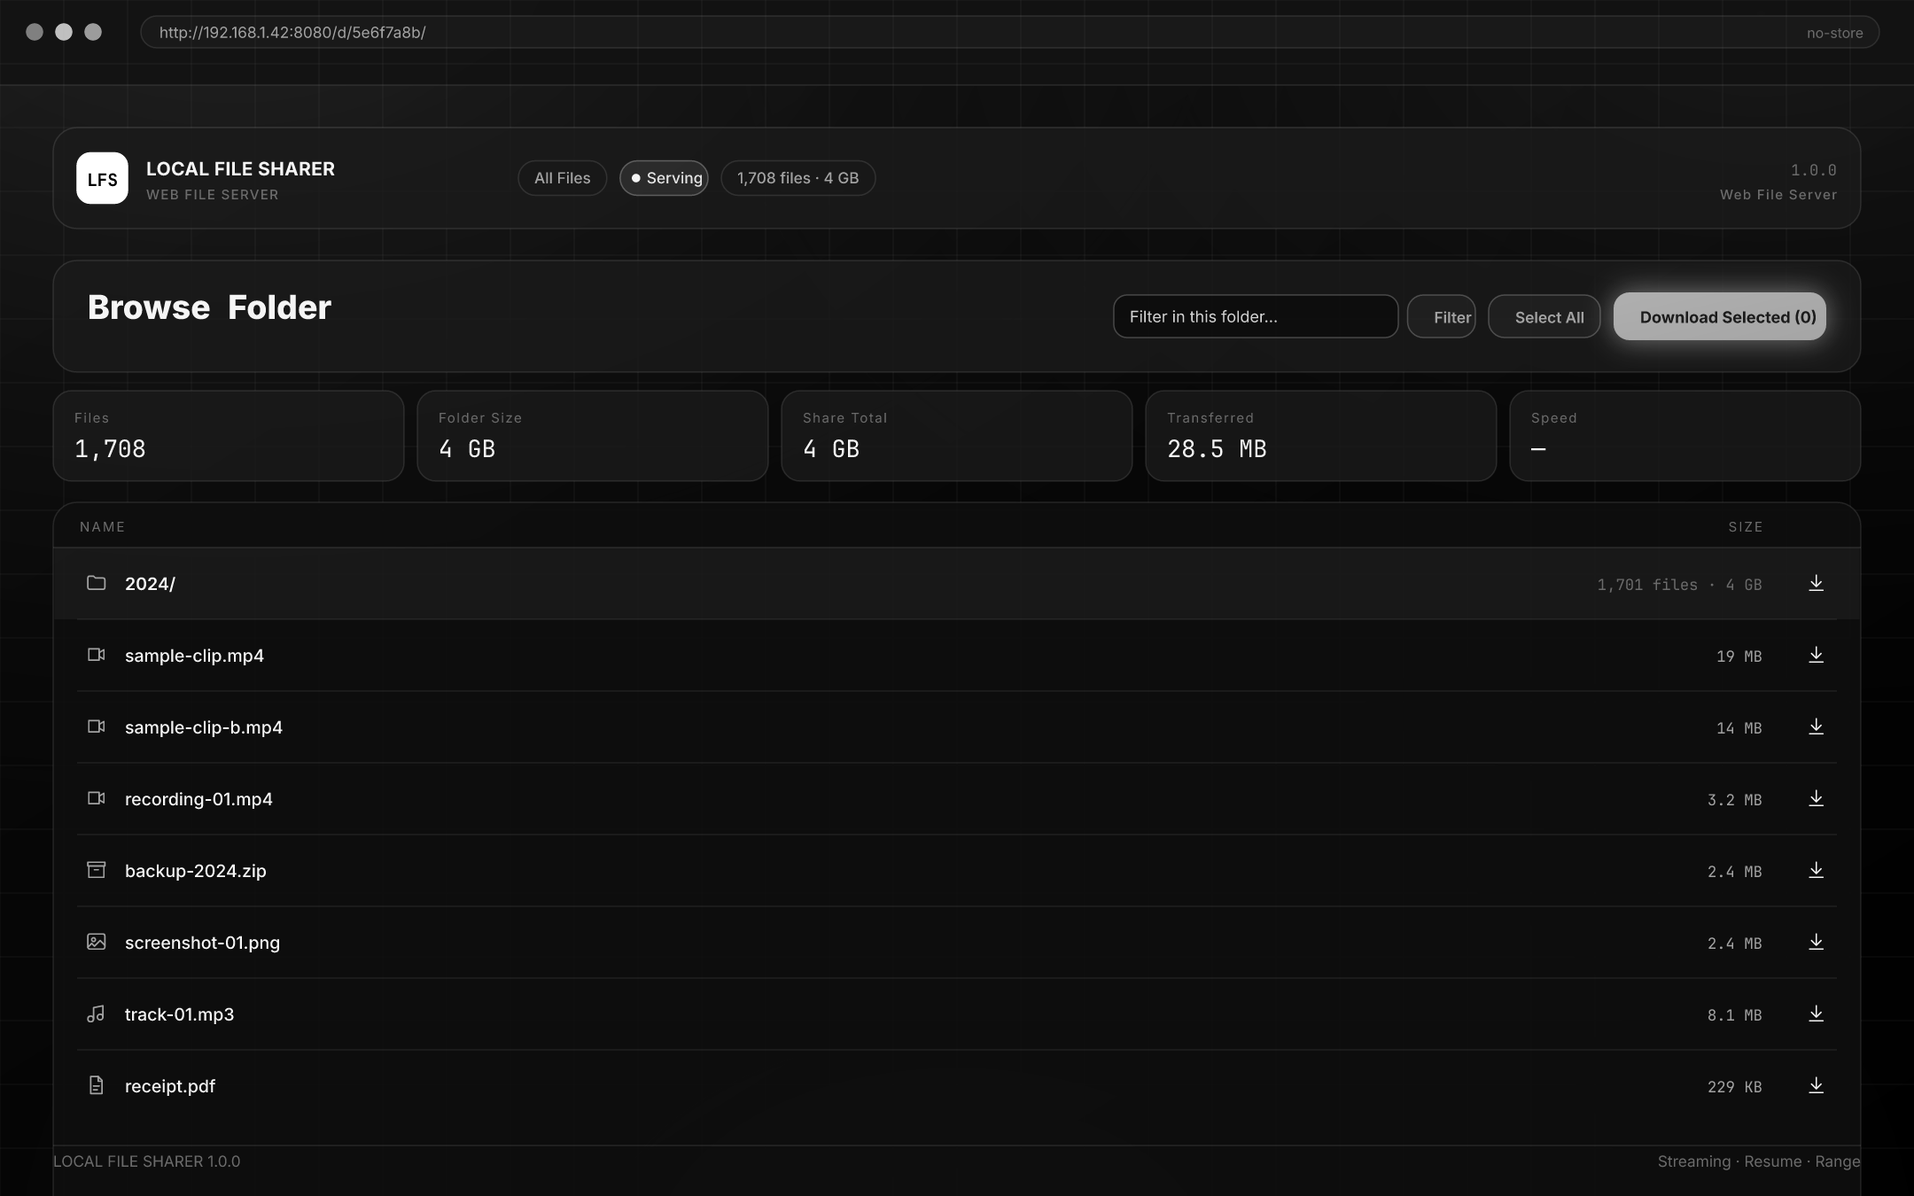
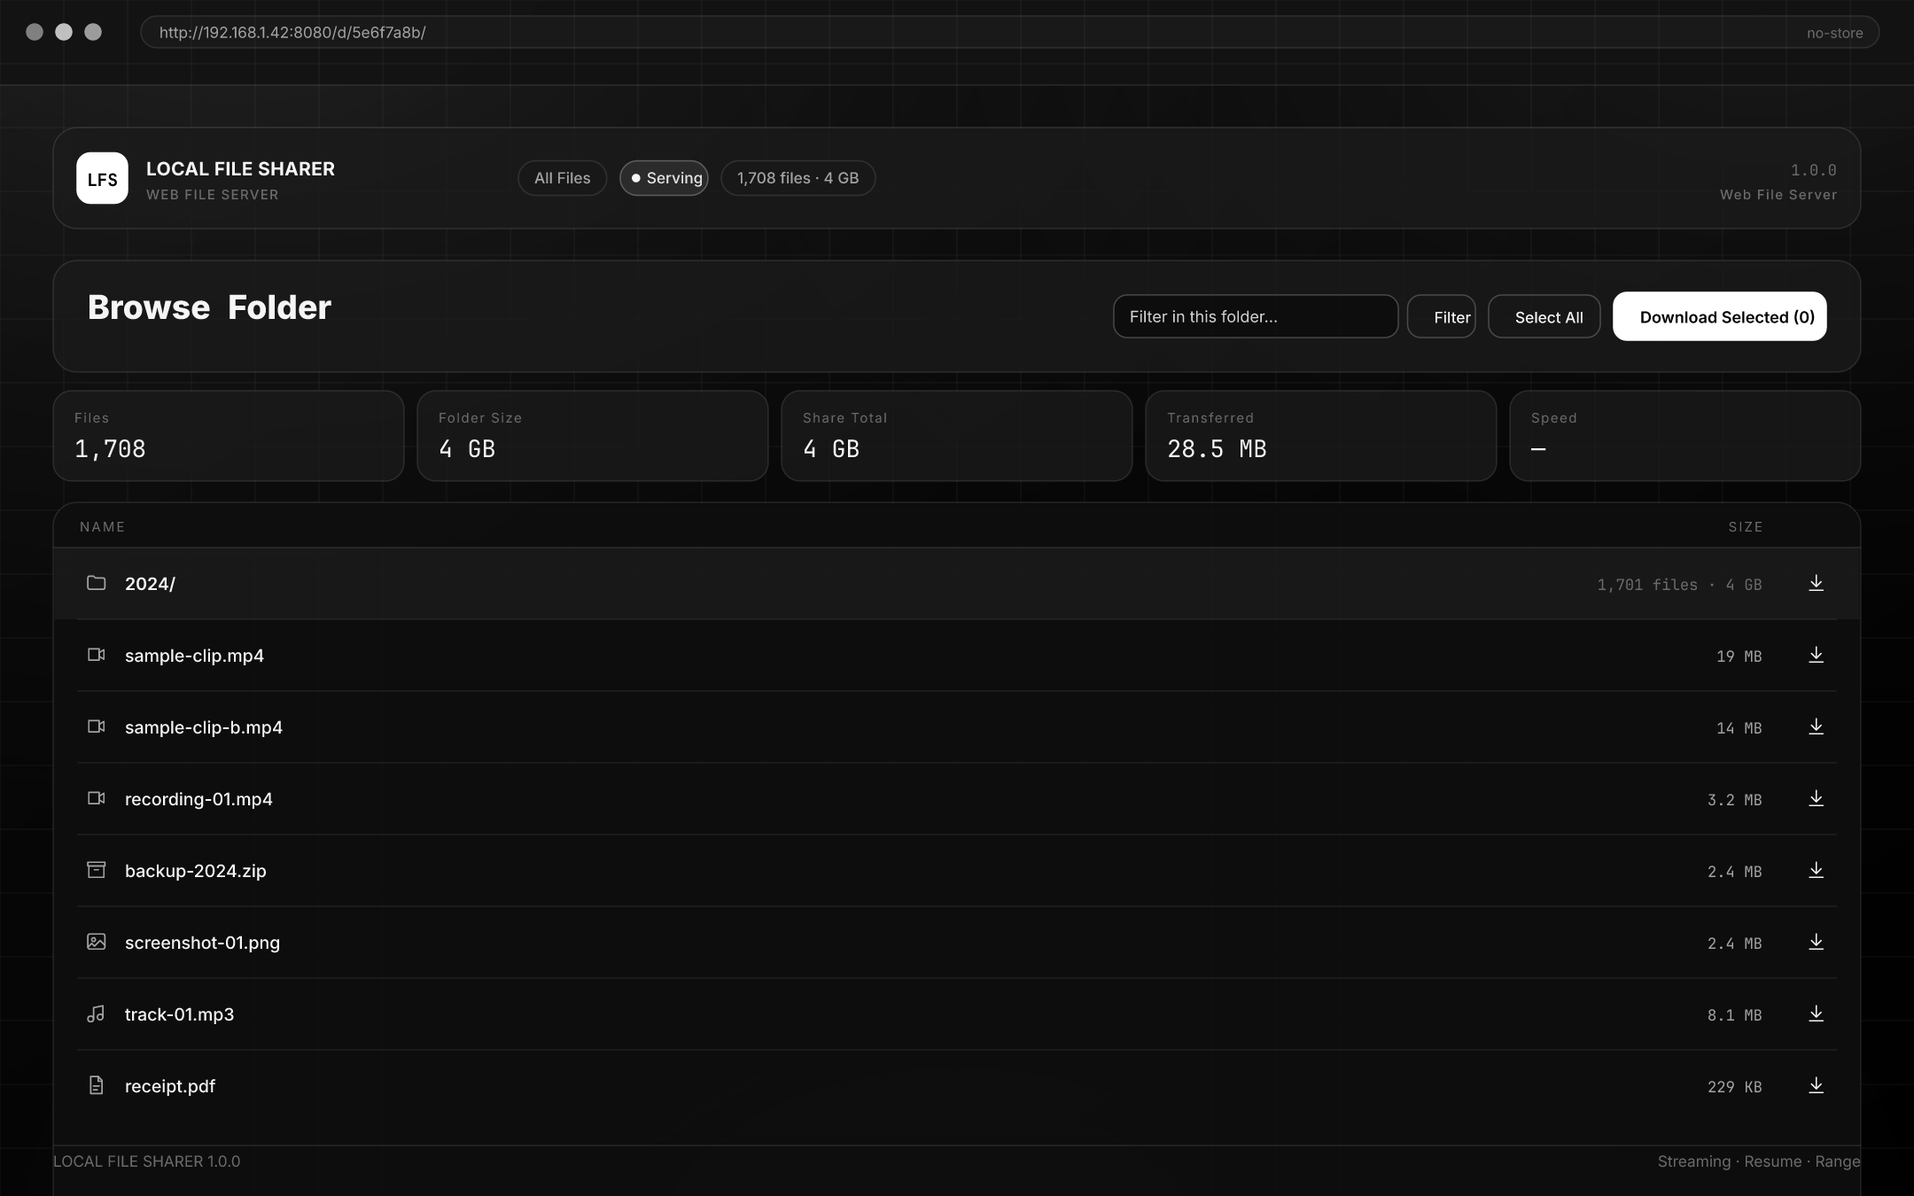
Draw the player's buttons from the page, not from memory
The screenshots and the gif were hand-drawn SVG that had drifted from the
player they claim to show. Nine differences, all visible in the button
row: 34px circles instead of 40px, a #3a3a3a border instead of #232323,
#0a0a0a inside instead of #141414, a 10px gap instead of 8px, controls in
the wrong order, a "+" in a frame where the download button belongs, no
download button at all, a flat pip rectangle instead of the outlined
screen-with-inset, and a play triangle drawn by hand instead of the
page's own path.

The row is now stamped from the page's markup. GLYPHS holds the exact
path data copied out of player.html, and _transport_glyph scales the same
24-unit viewBox the page uses. The 10s labels print on a plate of the
circle colour, as the page now does, and .solid is resolved the way the
page's CSS resolves it.

Two defects in the shipped player turned up while doing this, so the page
changed too, which is the point of comparing them:

* The "10" printed straight through the arrow's tail. Both were grey on
  the same circle, unreadable at 40px. It now sits on a #141414 plate.
* The icons were 21px inside a 40px circle, a thin glyph in a ring of
  dead space. They are 26px, which is what makes them read as buttons
  next to the 46px play disc.

The download page had the same class of error: app.css draws .btn as a
flat white pill, .btn.alt as #d4d4d4 and .btn.ghost as transparent with a
border, and the shot drew a grey gradient with a 30px glow instead. Flat
now.
[…]

Changed region(s): [[0.8065, 0.2178, 0.9616, 0.3111], [0.7444, 0.2489, 0.7755, 0.28]]

diff --git a/src/local_file_sharer/web/assets/player.html b/src/local_file_sharer/web/assets/player.html
@@ -240,20 +240,28 @@
     .round.primary{width:42px;height:42px;min-width:42px}
     #rate b{font-size:11px}
   }
-  .round .i{width:21px;height:21px;fill:none;stroke:currentColor;stroke-width:1.8;
+  /* 26px inside a 40px circle. At 21px the glyph sat in a ring of dead space
+     and read as a smaller, lighter button than the 46px play disc beside it;
+     the icons are the thing you aim at, so they get the room. */
+  .round .i{width:26px;height:26px;fill:none;stroke:currentColor;stroke-width:1.8;
     stroke-linecap:round;stroke-linejoin:round}
   .round.primary .i{width:24px;height:24px;fill:currentColor;stroke:none}
   .round .i .solid{fill:currentColor;stroke:none}
   .round .i.off{display:none}
   #fit svg{fill:none;stroke:currentColor;stroke-width:1.8;stroke-linecap:round}
   #fit svg .solid{stroke-width:2.4}
+  /* The number sits in the bottom of the circle with its own dark plate behind
+     it. Without the plate the "10" printed straight through the arrow's tail --
+     two grey shapes on top of each other, unreadable at 40px. The plate is the
+     circle's own colour, so it reads as a notch rather than a box. */
   .round .glyph{position:absolute;font-size:8.5px;font-weight:700;letter-spacing:0;
-    bottom:9px;left:50%;transform:translateX(-50%);pointer-events:none}
+    bottom:5px;left:50%;transform:translateX(-50%);pointer-events:none;line-height:1;
+    padding:0 1.5px;border-radius:3px;background:#141414;color:var(--dim)}
   /* the speed chip keeps its gauge logo and prints the rate in the corner */
   #rate .glyph{bottom:4px;font-size:9px;letter-spacing:-.02em;color:var(--text);
     background:rgba(0,0,0,.55);border-radius:4px;padding:0 2px;line-height:1.25}
-  #rate .i{width:18px;height:18px;margin-bottom:5px}
-  .round#mute .i{width:20px}
+  #rate .i{width:21px;height:21px;margin-bottom:4px}
+  .round#mute .i{width:24px}
   #vol{width:88px;flex:0 0 auto}
   @media (max-width:700px){ #vol{display:none} }   /* the mute button is enough */
   #rate b{font-size:12.5px;font-weight:650;font-variant-numeric:tabular-nums}

diff --git a/tools/screenshots/webgen.py b/tools/screenshots/webgen.py
@@ -419,75 +419,126 @@ def _player_chrome(shot: Shot, *, stage_y: int, stage_h: int, vw: int) -> None:
     pad = 26
     seek_y = bottom - 132
     shot.text(pad, seek_y + 4, "0:41:12", family="mono", size=11, fill=DIM)
-    shot.progress(pad + 62, seek_y - 3, vw - pad * 2 - 124, 0.38, h=6)
-    shot.circle(pad + 62 + (vw - pad * 2 - 124) * 0.38, seek_y, 7, fill="#ffffff")
+    shot.progress(pad + 62, seek_y - 3, vw - pad * 2 - 124, 0.38, h=6, color="#ffffff")
+    thumb_x = pad + 62 + (vw - pad * 2 - 124) * 0.38
+    # input[type=range]::-webkit-slider-thumb: 14px white dot inside a
+    # box-shadow 0 0 0 4px rgba(255,255,255,.22) -- the ring is most of what
+    # makes the slider look like the player's rather than a plain line.
+    shot.circle(thumb_x, seek_y, 11, fill="rgba(255,255,255,0.22)")
+    shot.circle(thumb_x, seek_y, 7, fill="#ffffff")
     shot.text(vw - pad, seek_y + 4, "1:48:20", family="mono", size=11, fill=DIM, anchor="end")
 
     cy = bottom - 74
-    shot.circle(pad + 21, cy, 21, fill="#ffffff")
-    shot.parts.append(
-        f'<path d="M{pad + 17} {cy - 9} L{pad + 30} {cy} L{pad + 17} {cy + 9} Z" fill="#000000"/>'
-    )
-    for offset, label in ((72, "10"), (128, "10")):
-        shot.circle(pad + offset, cy, 17, fill="#0a0a0a")
-        shot.parts.append(
-            f'<circle cx="{pad + offset}" cy="{cy}" r="17" fill="none" stroke="{LINE_STRONG}" stroke-width="1"/>'
-        )
-        shot.text(pad + offset, cy + 4, label, weight=700, size=10, fill=DIM, anchor="middle")
-    mx = pad + 184
-    shot.circle(mx, cy, 17, fill="#0a0a0a")
-    shot.parts.append(
-        f'<circle cx="{mx}" cy="{cy}" r="17" fill="none" stroke="{LINE_STRONG}" stroke-width="1"/>'
-    )
-    shot.parts.append(f'<path d="M{mx - 7} {cy - 3}h4l5-4v14l-5-4h-4z" fill="{DIM}"/>')
-    shot.parts.append(
-        f'<path d="M{mx + 4} {cy - 4}a5 5 0 0 1 0 8" stroke="{DIM}" stroke-width="1.4" fill="none"/>'
-    )
-    vx = mx + 30
-    shot.line(vx, cy, vx + 74, cy, stroke="rgba(255,255,255,0.20)", sw=5)
-    shot.line(vx, cy, vx + 56, cy, stroke="#ffffff", sw=5)
-    shot.circle(vx + 56, cy, 6, fill="#ffffff")
+    # ── transport ───────────────────────────────────────────────────────────
+    # Every number here is read off player.html, not guessed, because this row
+    # is the one thing the gifs are compared against: a 46px white play disc
+    # and 40px outlined circles at --line #232323, glyphs drawn from the same
+    # 24x24 viewBox paths the page uses, and #141414 inside every circle. The
+    # shot used to draw 34px circles with a lighter stroke and a different
+    # order of controls, which is not the player anyone installs.
+    ROUND, PRIMARY = 20.0, 23.0
+    CIRCLED = "#141414"
 
-    rx = vw - pad - 17 - 3 * 44
-    for kind in ("rate", "pip", "fit", "full"):
-        shot.circle(rx, cy, 17, fill="#0a0a0a")
+    def control(cx: float, radius: float) -> None:
+        shot.circle(cx, cy, radius, fill=CIRCLED)
         shot.parts.append(
-            f'<circle cx="{rx}" cy="{cy}" r="17" fill="none" stroke="{LINE_STRONG}" stroke-width="1"/>'
+            f'<circle cx="{cx}" cy="{cy}" r="{radius}" fill="none" '
+            'stroke="#232323" stroke-width="1"/>'
         )
+
+    # play: white disc, black triangle. player.html's .round.primary
+    shot.circle(pad + PRIMARY, cy, PRIMARY, fill=TEXT)
+    # player.html: <svg class="i" viewBox="0 0 24 24"><path d="M8 5v14l11-7z"/> at 24px
+    kp = 24 / 24
+    shot.parts.append(
+        f'<path d="M{pad + PRIMARY + (8 - 12) * kp:.2f} {cy + (5 - 12) * kp:.2f} '
+        f'V{cy + (19 - 12) * kp:.2f} L{pad + PRIMARY + (19 - 12) * kp:.2f} {cy:.2f} Z" fill="#000000"/>'
+    )
+
+    x = pad + PRIMARY * 2 + 10
+    for kind in ("back10", "fwd10", "mute"):
+        control(x, ROUND)
+        _transport_glyph(shot, x, cy, kind)
+        x += ROUND * 2 + 10
+
+    # #vol: a 88px range, 6px tall, white up to the thumb
+    vx = x
+    shot.line(vx, cy, vx + 88, cy, stroke="#333333", sw=6)
+    shot.line(vx, cy, vx + 66, cy, stroke="#ffffff", sw=6)
+    shot.circle(vx + 66, cy, 7, fill="#ffffff")
+
+    # right group: rate, pip, download, fit, fullscreen
+    rx = vw - pad - ROUND - 4 * (ROUND * 2 + 10)
+    for kind in ("rate", "pip", "download", "fit", "full"):
+        # #full is a 46px circle? no: every .round but play is 40px
+        control(rx, ROUND)
         _transport_glyph(shot, rx, cy, kind)
-        rx += 44
+        rx += ROUND * 2 + 10
+
+
+#: The transport glyphs, copied verbatim from player.html: a 24x24 viewBox and
+#: the exact ``d`` / rect geometry the page draws. Nothing is recomputed, which
+#: is the point -- a hand-traced copy of these already shipped once and managed
+#: to draw a "+" where the download control belongs, because a shape was being
+#: approximated instead of copied.
+GLYPHS: dict[str, tuple[str, ...]] = {
+    "back10": ('<path d="M11 5 6.5 9 11 13"/><path d="M6.5 9H13a5.5 5.5 0 1 1 0 11h-3"/>'),
+    "fwd10": ('<path d="m13 5 4.5 4-4.5 4"/><path d="M17.5 9H11a5.5 5.5 0 1 0 0 11h3"/>'),
+    "mute": (
+        '<path d="M4 9.5h3L11.5 6v12L7 14.5H4z"/><path d="M15.5 9a4 4 0 0 1 0 6"/>'
+        '<path d="M18 6.5a7.5 7.5 0 0 1 0 11"/>'
+    ),
+    "rate": (
+        '<path d="M4.2 17.5a8.5 8.5 0 1 1 15.6 0"/><path d="m12 14.5 4-4.2"/>'
+        '<circle cx="12" cy="15.2" r="1.4" fill="currentColor" stroke="none"/>'
+    ),
+    "pip": ('<rect x="3" y="5" width="18" height="14" rx="2.5"/>'
+            '<rect x="12" y="11" width="7" height="6" rx="1.2" fill="currentColor" stroke="none"/>'),
+    "download": ('<path d="M12 4v10"/><path d="m7.5 10.5 4.5 4 4.5-4"/><path d="M5 19h14"/>'),
+    # ``class="solid"`` is a CSS hook (.round .i .solid{fill:currentColor}), not
+    # a presentation attribute, so it is written as one here and resolved below.
+    "fit": ('<rect x="3" y="5" width="18" height="14" rx="2.5"/>'
+            '<path d="M7 12h10M12 8v8" class="solid"/>'),
+    "full": ('<path d="M4 9V4h5"/><path d="M20 9V4h-5"/><path d="M4 15v5h5"/><path d="M20 15v5h-5"/>'),
+}
+
+#: page.css: ``.round .i{width:26px;height:26px;stroke-width:1.8}`` -- the icon
+#: is 26px inside the 40px circle, so the 24-unit box scales by 26/24. (It was
+#: 21px, which left the circles looking hollow next to the 46px play disc; the
+#: shot and the page were changed together, because the shot is the promise.)
+ICON_PX = 26
+
+
+#: page.css: ``.round .i .solid{fill:currentColor;stroke:none}``. A ``.solid``
+#: shape on the page is the bright interior of an outline icon; here it is the
+#: same colour written out, since there is no cascade to inherit it from.
+SOLID = f'fill="{DIM}" stroke="none"'
 
 
 def _transport_glyph(shot, cx: float, cy: float, kind: str) -> None:
-    """The symbol inside a round control, in the page's own geometry."""
-    if kind == "rate":
-        # speedometer: an arc with a needle, exactly the path player.html uses
-        shot.parts.append(
-            f'<path d="M{cx - 8} {cy + 5}a8.5 8.5 0 1 1 15.6 0" fill="none" stroke="{DIM}" '
-            'stroke-width="1.5" stroke-linecap="round"/>'
-        )
-        shot.parts.append(
-            f'<path d="M{cx} {cy + 3}l4-4" stroke="{DIM}" stroke-width="1.5" stroke-linecap="round"/>'
-        )
-        shot.circle(cx, cy + 4, 1.4, fill=DIM)
-    elif kind == "pip":
-        shot.parts.append(
-            f'<rect x="{cx - 8}" y="{cy - 6}" width="16" height="12" rx="2" fill="none" '
-            f'stroke="{DIM}" stroke-width="1.4"/>'
-        )
-        shot.parts.append(f'<rect x="{cx + 1}" y="{cy}" width="6" height="5" rx="1" fill="{DIM}"/>')
-    elif kind == "fit":
-        shot.parts.append(
-            f'<rect x="{cx - 8}" y="{cy - 6}" width="16" height="12" rx="2" fill="none" '
-            f'stroke="{DIM}" stroke-width="1.4"/>'
-        )
-        shot.parts.append(f'<path d="M{cx - 4} {cy}h8M{cx} {cy - 4}v8" stroke="{DIM}" stroke-width="1.4"/>')
-    else:  # fullscreen: four corners
-        for dx, dy, sx, sy in ((-8, -6, 1, 1), (8, -6, -1, 1), (-8, 6, 1, -1), (8, 6, -1, -1)):
-            shot.parts.append(
-                f'<path d="M{cx + dx} {cy + dy + 4 * sy}V{cy + dy}H{cx + dx + 4 * sx}" fill="none" '
-                f'stroke="{DIM}" stroke-width="1.4" stroke-linecap="round"/>'
-            )
+    """Stamp one page glyph, centred, at the size the page draws it."""
+    scale = ICON_PX / 24
+    half = 12 * scale
+    shot.parts.append(
+        f'<g transform="translate({cx - half:.2f} {cy - half:.2f}) scale({scale:.4f})" '
+        f'fill="none" stroke="{DIM}" stroke-width="1.8" '
+        'stroke-linecap="round" stroke-linejoin="round">'
+        # ``currentColor`` is the page's shorthand for "the button's text
+        # colour"; outside a CSS context it resolves to black, which drew the
+        # "+" inside the fill-screen icon invisibly on a black circle. Substitute
+        # the colour the page actually ends up with.
+        + "".join(GLYPHS[kind]).replace("currentColor", DIM).replace('class="solid"', SOLID)
+        + "</g>"
+    )
+    # `10` and the current rate print in the lower half of the circle
+    # (page.css: .round .glyph{bottom:9px}) rather than under the icon.
+    if kind in ("back10", "fwd10"):
+        # page.css .round .glyph: 8.5px bold in the bottom of the circle, on a
+        # plate of #141414 so it does not print through the arrow.
+        shot.rect(cx - 6, cy + 6, 12, 11, fill="#141414", r=3)
+        shot.text(cx, cy + 14, "10", family="mono", weight=700, size=8.5, fill=DIM, anchor="middle")
+    elif kind == "rate":
+        shot.text(cx, cy + 13, "1\u00d7", weight=700, size=8.5, fill=TEXT, anchor="middle")
 
 
 def recorded_text() -> list[str]:

diff --git a/tests/test_asset_drift.py b/tests/test_asset_drift.py
@@ -16,6 +16,7 @@ renderers are not guards.
 from __future__ import annotations
 
 import io
+import re
 from pathlib import Path
 
 import pytest
@@ -348,3 +349,85 @@ def test_no_real_file_names_are_published():
             if name in text:
                 offenders.append(f"{path.relative_to(repo)}: {name}")
     assert not offenders, "real device names are published in:\n  " + "\n  ".join(offenders)
+
+
+def _player_template() -> str:
+    repo = Path(__file__).resolve().parents[1]
+    return (repo / "src" / "local_file_sharer" / "web" / "assets" / "player.html").read_text(encoding="utf-8")
+
+
+def test_the_player_shot_draws_the_page_s_own_icons():
+    """The shot's transport glyphs must be the page's path data, not lookalikes.
+
+    This is the failure that prompted the check: the screenshot and the gif drew
+    their own round controls -- different sizes, a lighter border, the controls
+    in a different order, and a "+" where the download button belongs. Nothing
+    compared the drawing to the markup, so a picture of a page that never
+    existed could sit in the README indefinitely.
+
+    The shot imports its glyphs from webgen.GLYPHS, which is a copy of the
+    page's markup; this holds the copy against the original.
+    """
+    # Parsed out of the source rather than imported: webgen pulls in fontTools,
+    # resvg and the font files at import time, and none of those are installed
+    # in CI, so importing it here would make this test skip on the one machine
+    # that decides whether the assets are allowed to ship.
+    repo = Path(__file__).resolve().parents[1]
+    source = (repo / "tools" / "screenshots" / "webgen.py").read_text(encoding="utf-8")
+    block = source[source.index("GLYPHS: dict[str, tuple[str, ...]] = {") :]
+    block = block[: block.index("\n}\n") + 1]
+
+    # every quoted literal in the table, split into its individual SVG shapes so
+    # one string holding three <path>s is checked shape by shape
+    literals = re.findall(r"'([^']*)'", block)
+    shapes = [chunk for literal in literals for chunk in re.findall(r"<[^>]+>", literal)]
+    assert len(shapes) >= 20, f"expected the page's glyph shapes, found {len(shapes)}"
+
+    def normalise(markup: str) -> str:
+        """The geometry and nothing else.
+
+        The shot resolves two CSS-only shorthands itself, because an SVG string
+        has no cascade to inherit from: ``class="solid"`` becomes an explicit
+        fill, and ``currentColor`` becomes a literal colour. Strip the
+        presentation back off before comparing, so the check is about the
+        drawing (which paths, which coordinates) rather than about how each
+        side spells its colours.
+        """
+        markup = re.sub(r'\s*class="solid"', "", markup)
+        markup = re.sub(r'\s*fill="(?:currentColor|#[0-9a-f]{3,6}|none)"', "", markup)
+        markup = re.sub(r'\s*stroke="(?:currentColor|none)"', "", markup)
+        return markup
+
+    page = normalise(_player_template())
+    for fragment in shapes:
+        if True:
+            # ``class="solid"`` is a CSS hook the shot resolves itself; the path
+            # geometry around it still has to match the page character for character.
+            assert normalise(fragment) in page, f"the shot draws {fragment!r}, which player.html does not"
+
+
+def test_the_player_shot_uses_the_page_s_button_geometry():
+    """46px play disc, 40px circles, #141414 inside, 26px icons, gap 8."""
+    page = _player_template()
+    assert "border-radius:50%" in page
+    assert "background:#141414" in page or "#141414" in page
+    # the numbers the shot hardcodes, which is why they are asserted here
+    for rule in ("width:40px;height:40px", "width:46px;height:46px", "width:26px;height:26px"):
+        assert rule in page.replace(" ", ""), f"player.html no longer says {rule!r}"
+
+
+def test_the_web_shots_do_not_glow():
+    """No gradient or glow on a button: app.css is flat, so the shots are too.
+
+    The download shot drew a grey gradient primary button with a 30px halo, and
+    the accent colour it glowed with was removed from the product two rounds
+    ago. A screenshot with a glow in it is a screenshot of a different app.
+    """
+    repo = Path(__file__).resolve().parents[1]
+    source = (repo / "tools" / "screenshots" / "webshot.py").read_text(encoding="utf-8")
+    block = source[source.index("def button(") : source.index("def qr(")]
+    for banned in ("glow_rect(", "linear([("):
+        assert banned not in block, f"the button draws {banned!r}, which app.css does not"
+    assert '"#ffffff" if variant == "primary" else "#d4d4d4"' in block, (
+        "primary/alt fills must be the app.css values #fff / #d4d4d4"
+    )

diff --git a/tools/screenshots/webshot.py b/tools/screenshots/webshot.py
@@ -430,21 +430,25 @@ class Shot(Canvas):
         m = Measure("sans", 600, size)
         if w is None:
             w = m.width(label) + 40 + (22 if icon else 0) + (52 if badge else 0)
-        r = 12
-        if variant == "primary":
-            fill = self.linear([(0, "#afafaf"), (1, "#a5a5a5")], x1=0, y1=0, x2=1, y2=1)
-            self.glow_rect(x, y, w, h, r=r, fill=fill, glow=ACCENT, spread=30, opacity=0.45)
-            text_fill = "#1c1c1c"
-            weight = 700
-        elif variant == "alt":
-            fill = self.linear([(0, "rgba(153,153,153,0.22)"), (1, "rgba(175,175,175,0.16)")])
-            self.rect(x, y, w, h, fill=fill, stroke="rgba(153,153,153,0.45)", r=r)
-            text_fill = "#dadada"
+        # These are app.css's .btn rules, not an interpretation of them:
+        #   .btn        background #fff            border 1px #fff   color #000
+        #   .btn.alt    background #d4d4d4         border #d4d4d4     color #000
+        #   .btn.ghost  background transparent     border var(--line-strong)
+        # radius 10px, weight 600, 13.5px.
+        # The shot used to draw a grey gradient with a 30px glow on the primary
+        # button, which is not a button this project has ever shipped: the page
+        # is flat white on black, and the screenshots are supposed to be the
+        # page. Anything glowing was the old accent system leaking through.
+        r = 10
+        if variant in ("primary", "alt"):
+            fill = "#ffffff" if variant == "primary" else "#d4d4d4"
+            self.rect(x, y, w, h, fill=fill, stroke=fill, r=r)
+            text_fill = "#000000"
             weight = 600
         else:  # ghost
-            self.rect(x, y, w, h, fill="rgba(161,161,161,0.06)", stroke=LINE_STRONG, r=r)
-            text_fill = DIM
-            weight = 600
+            self.rect(x, y, w, h, fill="none", stroke=LINE_STRONG, r=r)
+            text_fill = TEXT
+            weight = 500
         cursor = x + (20 if not badge else 18)
         if icon:
             self.emoji(cursor, y + h / 2 - 9, icon, 18)
